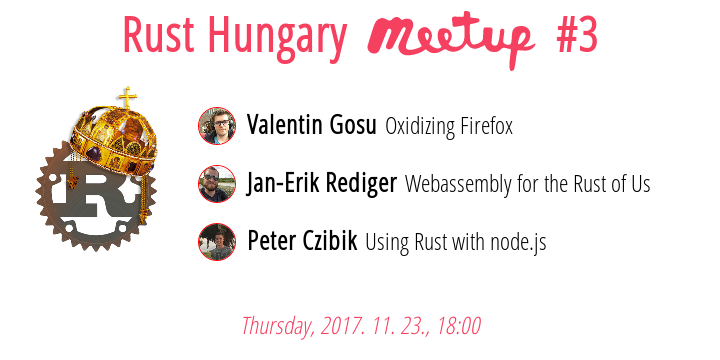
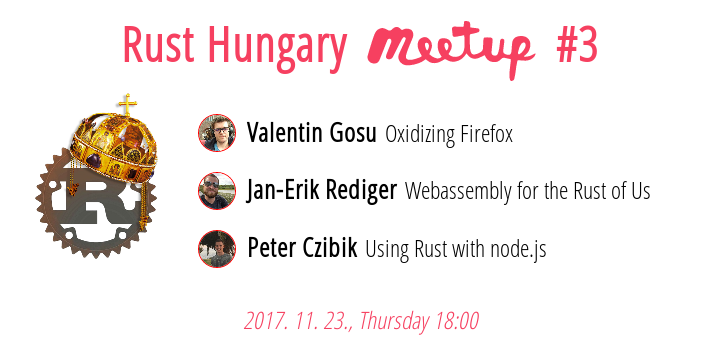
Update share image

diff --git a/www/posts/2017-11-22/share.html b/www/posts/2017-11-22/share.html
@@ -1,86 +1,85 @@
 <html>
 <head>
-  <link href="https://fonts.googleapis.com/css?family=Open+Sans+Condensed:300" rel="stylesheet">
-  <style>
+<link href="https://fonts.googleapis.com/css?family=Open+Sans+Condensed:300" rel="stylesheet">
+<style>
+body {
+  font-family: Open Sans Condensed;
+  font-size: 24px;
+}
 
+#share {
+  width: 720px;
+  height: 360px;
 
+  display: flex;
+  flex-direction: column;
+}
 
-    body {
-      font-family: Open Sans Condensed;
-      font-size: 24px;
-    }
+main {
+  flex: 3;
+  display: flex
+}
 
-    #share {
-      width: 720px;
-      height: 360px;
+.logo {
+  display: flex;
+  justify-content:  center;
+  align-items: center;
+}
 
-      display: flex;
-      flex-direction: column;
-    }
+.logo img {
+  width: 8em;
+}
 
-    main {
-      flex: 3;
-      display: flex
-    }
+header {
+  flex: 1;
+  text-align:  center;
 
-    .logo {
-      display: flex;
-      justify-content:  center;
-      align-items: center;
-    }
+  font-size: 2em;
+  font-weight: bold;
+  color: #F64060;
+  padding-top: .2em;
+}
+header img {
+  max-height: 1.25em;
+  margin-bottom: -.4em;
+  margin-left: .2em;
+  margin-right: .2em;
+}
 
-    .logo img {
-      width: 8em;
-    }
+ol {
+  padding: 0;
+  list-style-type: none;
+}
 
-  header {
-    flex: 1;
-    text-align:  center;
+li {
+  padding: .25em;
+  padding-top: .5em;
+}
 
-    font-size: 2em;
-    font-weight: bold;
-    color: #F64060;
-  }
-    header img {
-      max-height: 1.25em;
-      margin-bottom: -.4em;
-      margin-left: .2em;
-      margin-right: .2em;
-    }
+li img {
+  border: 1px solid red;
+  border-radius: 50%;
+  vertical-align: middle;
+  height: 1.5em;
+  margin-right: .25em;
+  margin-top: -.15em;
+}
+li strong {
+  font-weight: 900;
+  font-size: 110%;
+  margin-right: .1em;
+}
+footer {
+  flex: 1;
+  text-align: center;
+  display: flex;
+  justify-content: center;
 
-    ol {
-      padding: 0;
-      list-style-type: none;
-    }
-
-  li {
-    padding: .25em;
-    padding-top: .5em;
-  }
-
-  li img {
-    border: 1px solid red;
-    border-radius: 50%;
-    vertical-align: middle;
-    height: 1.5em;
-    margin-right: .25em;
-    margin-top: -.15em;
-  }
-  li strong {
-    font-weight: 900;
-    font-size: 110%;
-    margin-right: .1em;
-  }
-  footer {
-    flex: 1;
-    text-align: center;
-    display: flex;
-    align-items: center;
-    justify-content: center;
-
-    color: #F64060;
-    font-style: italic;
-  }</style>
+  color: #F64060;
+  font-style: italic;
+  padding-top: .2em;
+}
+</style>
 </head>
 <body>
 <div id="share">
@@ -96,6 +95,6 @@
     </ol>
   </main>
 
-  <footer>Thursday, 2017. 11. 23., 18:00</footer>
+  <footer>2017. 11. 23., Thursday 18:00</footer>
 </div>
 </body>
